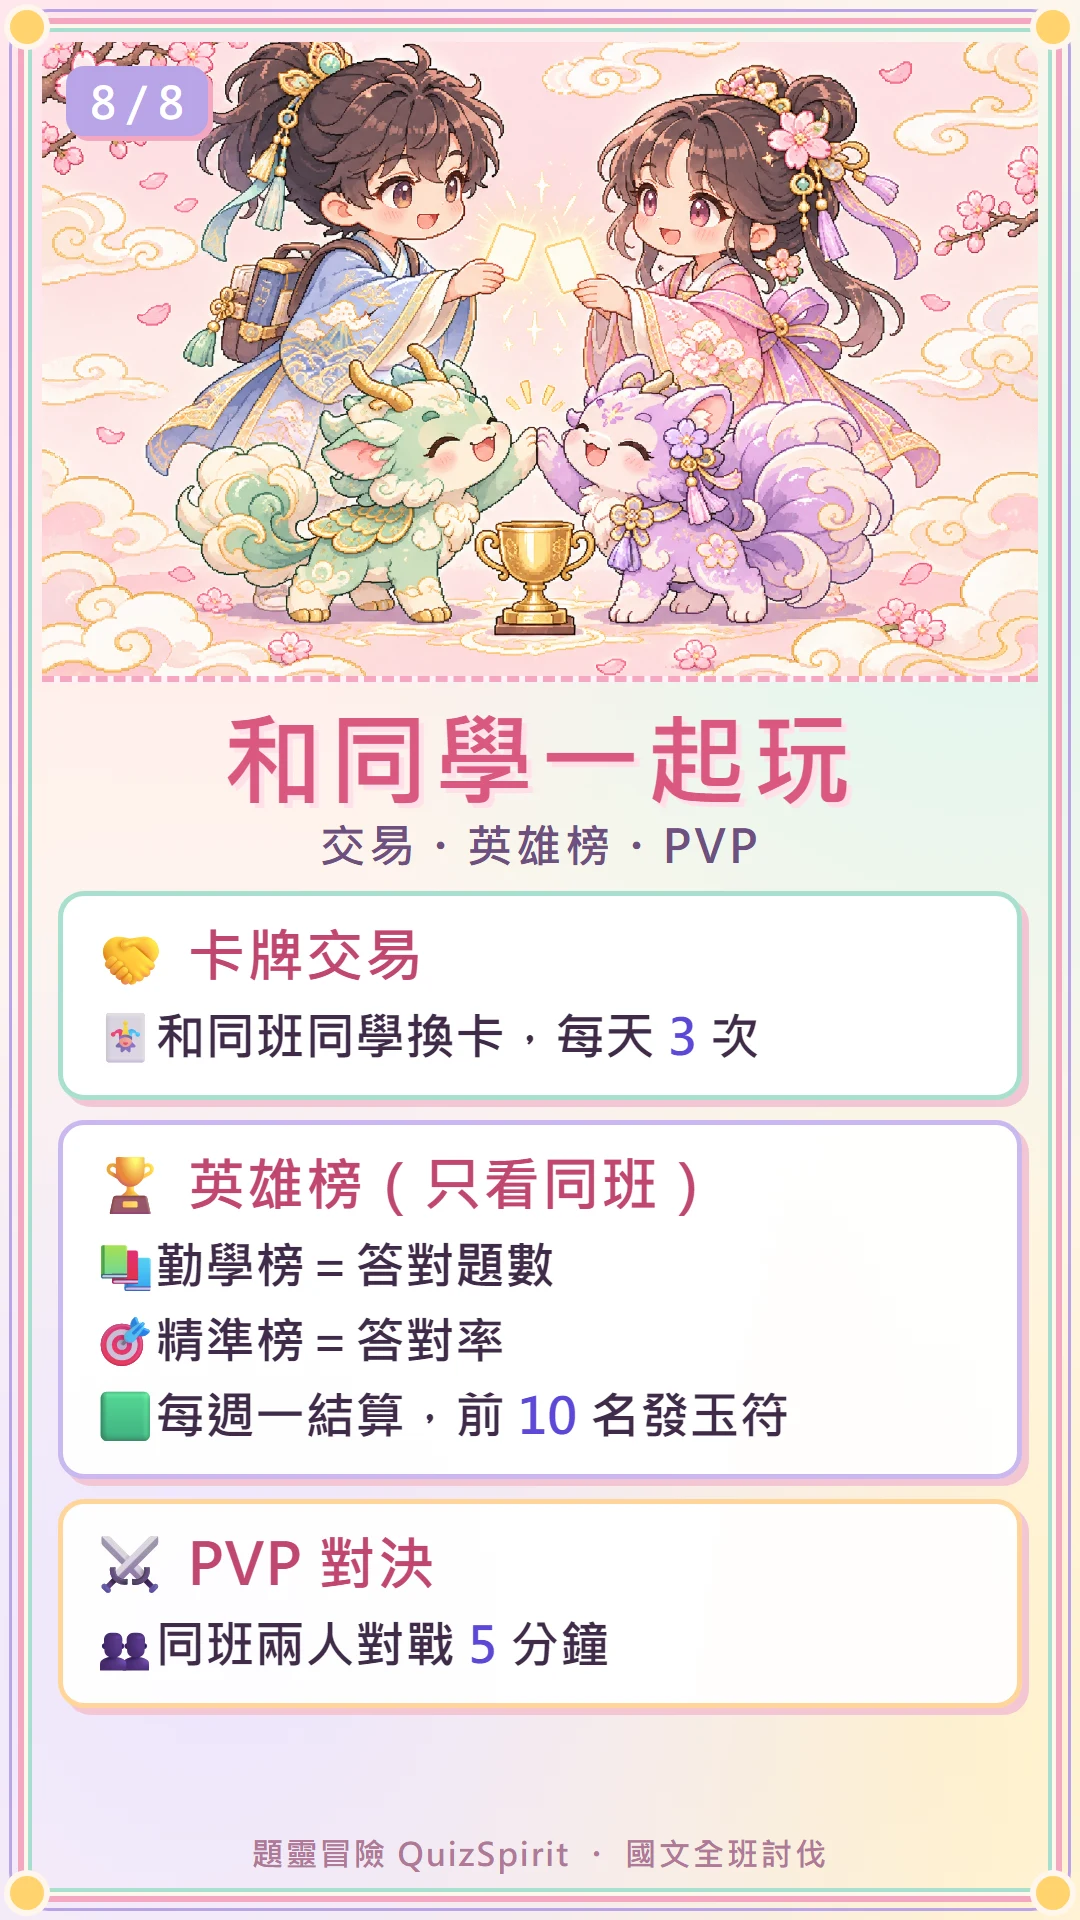
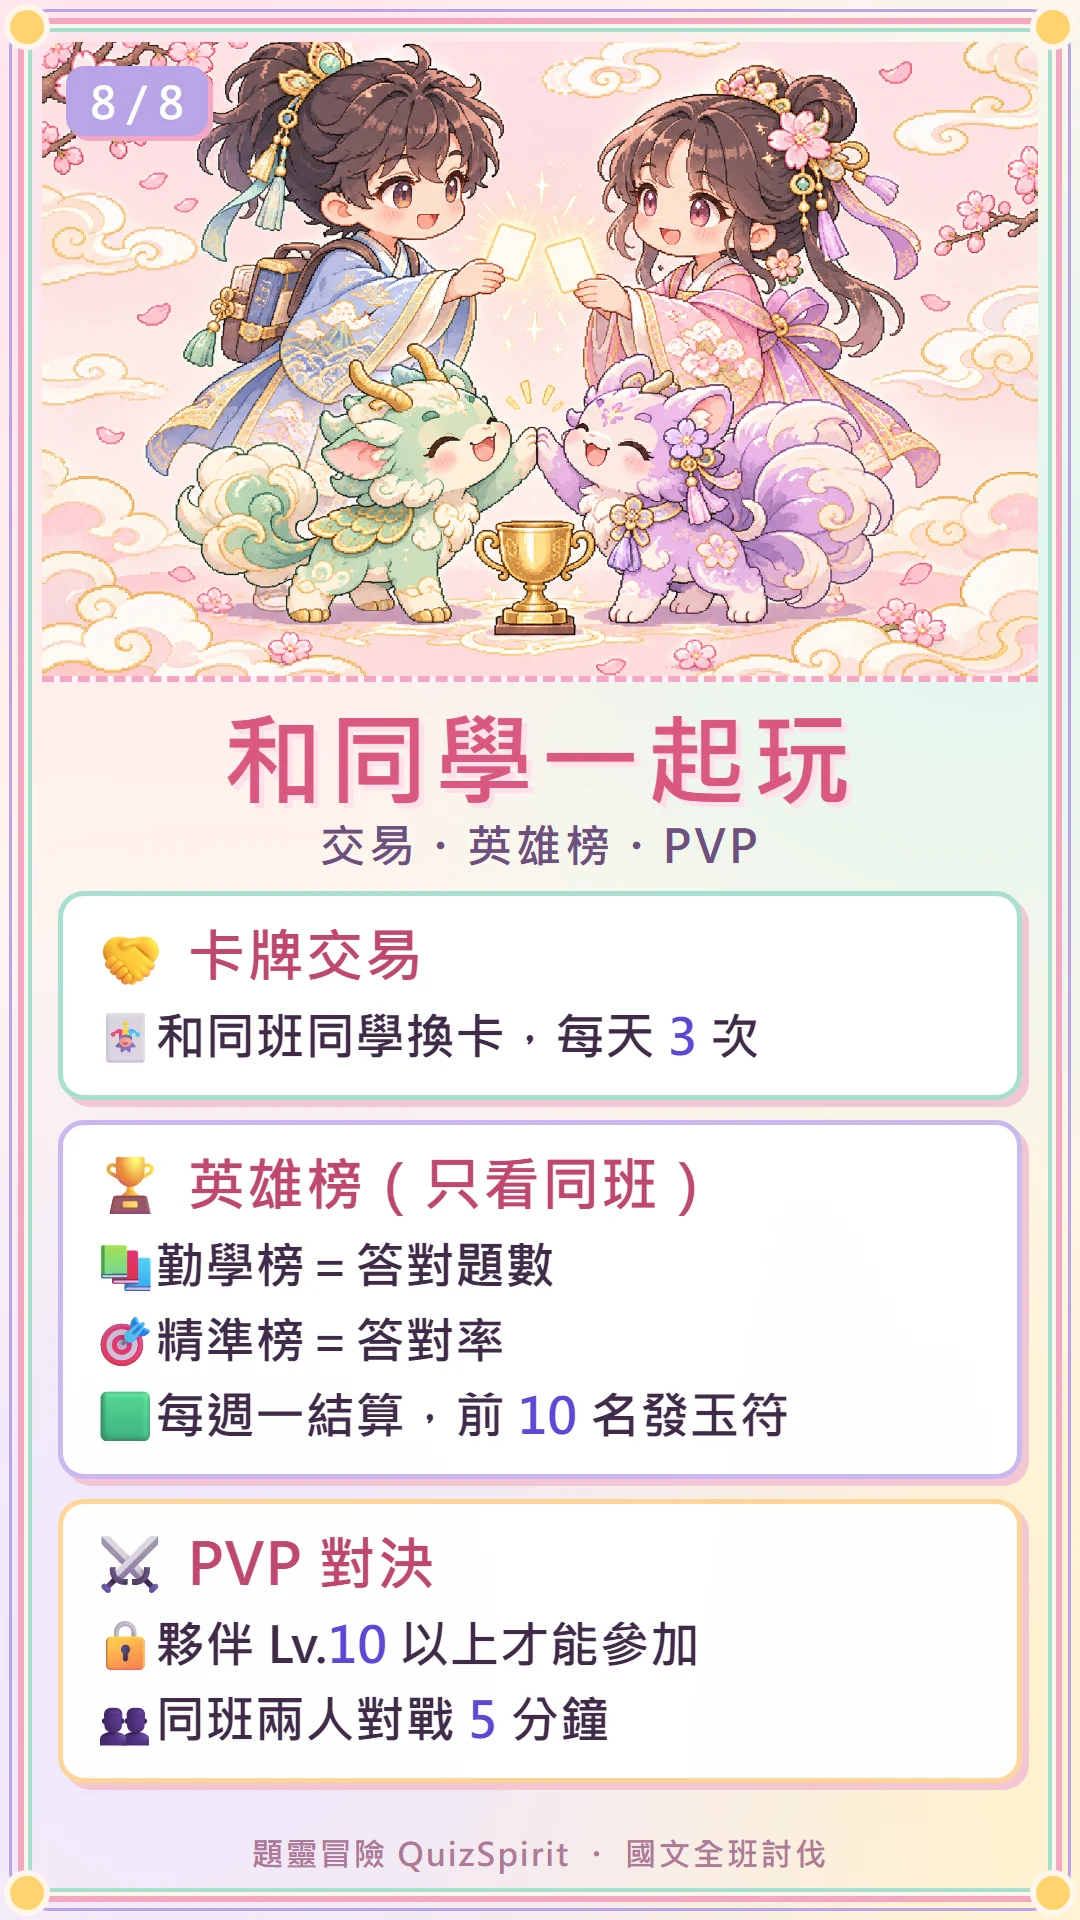
PVP 對決需要夥伴等級 10 以上，說明卡同步更新

Changed region(s): [[0.0306, 0.8438, 0.9778, 0.9375]]

diff --git a/src/PvpApp.jsx b/src/PvpApp.jsx
@@ -5,7 +5,7 @@ import React,{useState,useEffect,useRef,useCallback} from 'react';
 import RoomMusic from './RoomMusic.jsx';
 import {Swords,Heart,Clock,Users,Wifi,WifiOff,Check,ArrowRight,Flag,Trophy,RefreshCw,Home} from 'lucide-react';
 import {preferredBank} from './question-bank.js';
-import {api} from './api.js';import {PVP,pvpLive} from '../shared/pvp-rules.js';import {partnerFor} from './growth.js';import {usableSpirit} from '../shared/ownership.js';
+import {api} from './api.js';import {PVP,pvpLive} from '../shared/pvp-rules.js';import {partnerFor,levelFor} from './growth.js';import {usableSpirit} from '../shared/ownership.js';
 const clock=n=>`${String(Math.floor(Math.max(0,n)/60)).padStart(2,'0')}:${String(Math.max(0,n)%60).padStart(2,'0')}`;
 export default function PvpApp({user,cloud,banks,onRefresh,onExit}){
  const [room,setRoom]=useState(null),[loaded,setLoaded]=useState(false),[busy,setBusy]=useState(false),[connected,setConnected]=useState(false),[retryConnect,setRetryConnect]=useState(0),[error,setError]=useState(''),[notice,setNotice]=useState(''),[retry,setRetry]=useState(null),[tick,setTick]=useState(Date.now());
@@ -47,5 +47,5 @@ export default function PvpApp({user,cloud,banks,onRefresh,onExit}){
 }
 function Fighter({player,mine=false,acting=false,hurt=false,fxKey=0}){if(!player)return <div className="pvp-fighter empty"><Users size={48}/><h2>等待同班對手</h2><p>分享房間碼，邀請朋友加入。</p></div>;return <div className={`pvp-fighter ${mine?'mine':'rival'} ${acting?'is-acting':''} ${hurt?'is-hurt':''}`}><div className="pvp-player-name"><span className={player.online?'online-dot online':'online-dot'}/>{player.name}{mine?'（我）':''}<small>{player.ready?'已準備':'尚未準備'}</small></div><div className="pvp-portrait" key={fxKey}><img className={`idle-${motionFor(player.partner.type)}${player.partner.shiny?' is-shiny':''}`} style={idleStyle(player.partner.id,mine?'player':'enemy')} src={`/assets/${player.partner.id}.png`} alt={player.partner.zhName}/></div><h2>{player.nickname||player.partner.zhName}</h2><p>{player.partner.zhName}</p><div className="pvp-hp-label"><span>HP</span><b>{player.hp}<small> / 185</small></b></div><div className="pvp-hp-track" role="progressbar" aria-label={mine?'我的 HP':'對手 HP'} aria-valuemin={0} aria-valuemax={185} aria-valuenow={player.hp}><span style={{width:player.hp/185*100+'%'}}/></div></div>;}
 function RoleSelect({cloud,value,onChange,disabled}){const fixed=partnerFor(cloud.growth),choices=usableSpirit(cloud),chosen=choices.find(p=>p.id===Number(value));return <div className="pvp-role-select"><label>出戰角色<select aria-label="PVP 出戰角色" value={value} disabled={disabled||!choices.length} onChange={e=>onChange(Number(e.target.value))}>{!choices.length&&<option value="">先選固定夥伴</option>}{choices.map(p=><option value={p.id} key={p.id}>{p.zhName}{p.id===fixed?.id?'（固定夥伴）':'（已解鎖）'}</option>)}</select></label>{chosen&&<span><img src={`/assets/${chosen.id}.png`} alt={chosen.zhName}/>{chosen.zhName} · 所有角色能力相同</span>}</div>;}
-function PvpEntry({cloud,banks,busy,perform,user}){const [tab,setTab]=useState('create'),[code,setCode]=useState(''),[bank,setBank]=useState(()=>preferredBank(banks)),[role,setRole]=useState(partnerFor(cloud.growth)?.id||'');return <section className="pvp-entry"><div className="pvp-entry-story"><span className="cloud-eyebrow">THINK FAST. PLAY FAIR.</span><h2>這次，換朋友<br/>成為你的對手。</h2><p>同班兩人，各自連續答題。<br/>185 HP，5 分鐘，把思考化成攻擊。</p><div><span><Swords/>答對依難度造成 8／10／20 點傷害</span><span><Heart/>可用背包傷藥補血</span><span><Trophy/>時間到比較剩餘 HP</span></div></div><form onSubmit={e=>{e.preventDefault();(tab==='create'?perform('/pvp/create',{bankId:bank,playerId:Number(role)}):perform(`/pvp/${code.trim().toUpperCase()}/join`,{playerId:Number(role)})).catch(()=>{});}}><div className="pvp-entry-tabs"><button type="button" aria-pressed={tab==='create'} onClick={()=>setTab('create')}>建立房間</button><button type="button" aria-pressed={tab==='join'} onClick={()=>setTab('join')}>加入房間</button></div><p>你的班級：<b>{user.className||'尚未設定，請找老師協助'}</b></p><RoleSelect cloud={cloud} value={role} onChange={setRole} disabled={busy}/>{tab==='create'?<label>對決題庫<select value={bank} onChange={e=>setBank(e.target.value)}><option value="math-auto">自動數學練習</option>{banks.filter(b=>b.count>0).map(b=><option key={b.bankId} value={b.bankId}>{b.title}（{b.count} 題）</option>)}</select></label>:<label>6 碼 PVP 房間碼<input value={code} onChange={e=>setCode(e.target.value.toUpperCase())} pattern="[A-Z2-9]{6}" maxLength={6} required autoComplete="off" placeholder="例如：AB3C7D"/></label>}<button className="primary-button" disabled={busy||!role||!user.className}>{busy?'連線中…':tab==='create'?'建立 PVP 房間':'加入 PVP 房間'}<ArrowRight size={17}/></button><small>雙方使用同一題庫、各自打亂順序。開始前都要按準備，不會直接開打。</small></form></section>;}
+function PvpEntry({cloud,banks,busy,perform,user}){const [tab,setTab]=useState('create'),[code,setCode]=useState(''),[bank,setBank]=useState(()=>preferredBank(banks)),[role,setRole]=useState(partnerFor(cloud.growth)?.id||'');const xp=cloud.growth?.xp||0,lv=levelFor(xp),locked=lv<PVP.minLevel;return <section className="pvp-entry"><div className="pvp-entry-story"><span className="cloud-eyebrow">THINK FAST. PLAY FAIR.</span><h2>這次，換朋友<br/>成為你的對手。</h2><p>同班兩人，各自連續答題。<br/>185 HP，5 分鐘，把思考化成攻擊。</p><div><span><Swords/>答對依難度造成 8／10／20 點傷害</span><span><Heart/>可用背包傷藥補血</span><span><Trophy/>時間到比較剩餘 HP</span></div></div><form onSubmit={e=>{e.preventDefault();(tab==='create'?perform('/pvp/create',{bankId:bank,playerId:Number(role)}):perform(`/pvp/${code.trim().toUpperCase()}/join`,{playerId:Number(role)})).catch(()=>{});}}><div className="pvp-entry-tabs"><button type="button" aria-pressed={tab==='create'} onClick={()=>setTab('create')}>建立房間</button><button type="button" aria-pressed={tab==='join'} onClick={()=>setTab('join')}>加入房間</button></div>{locked&&<div className="pvp-level-lock" role="alert"><b>🔒 PVP 對決需要夥伴等級 {PVP.minLevel} 以上</b><span>你目前是 Lv.{lv}，還差 {(PVP.minLevel-1)*100-xp} XP。先去冒險多答幾題吧！</span></div>}<p>你的班級：<b>{user.className||'尚未設定，請找老師協助'}</b></p><RoleSelect cloud={cloud} value={role} onChange={setRole} disabled={busy}/>{tab==='create'?<label>對決題庫<select value={bank} onChange={e=>setBank(e.target.value)}><option value="math-auto">自動數學練習</option>{banks.filter(b=>b.count>0).map(b=><option key={b.bankId} value={b.bankId}>{b.title}（{b.count} 題）</option>)}</select></label>:<label>6 碼 PVP 房間碼<input value={code} onChange={e=>setCode(e.target.value.toUpperCase())} pattern="[A-Z2-9]{6}" maxLength={6} required autoComplete="off" placeholder="例如：AB3C7D"/></label>}<button className="primary-button" disabled={busy||!role||!user.className||locked}>{busy?'連線中…':tab==='create'?'建立 PVP 房間':'加入 PVP 房間'}<ArrowRight size={17}/></button><small>雙方使用同一題庫、各自打亂順序。開始前都要按準備，不會直接開打。</small></form></section>;}
 function PvpPartner({cloud,initial,busy,save}){const [role,setRole]=useState(initial);useEffect(()=>setRole(initial),[initial]);return <div className="pvp-change-role"><RoleSelect cloud={cloud} value={role} onChange={setRole} disabled={busy}/><button disabled={busy||role===initial} onClick={()=>save(Number(role)).catch(()=>{})}>保存出戰角色</button></div>;}

diff --git a/server/pvp-api.js b/server/pvp-api.js
@@ -1,8 +1,10 @@
-import {sha} from './auth.js';import {ownedSpirit} from '../shared/ownership.js';import {partnerFor} from '../src/growth.js';import {pvpLive,pvpError} from '../shared/pvp-rules.js';import {activeActivity,claimActivity,releaseActivity} from './activity.js';
+import {sha} from './auth.js';import {ownedSpirit} from '../shared/ownership.js';import {partnerFor,levelFor} from '../src/growth.js';import {PVP,pvpLive,pvpError} from '../shared/pvp-rules.js';import {activeActivity,claimActivity,releaseActivity} from './activity.js';
 const json=(data,status=200)=>new Response(JSON.stringify(data),{status,headers:{'Content-Type':'application/json; charset=utf-8','Cache-Control':'no-store'}});
 const actor=user=>({id:user.id,name:user.display_name,className:user.class_name,role:user.role,tokenHash:user.token_hash,sessionExpires:user.session_expires});
 export const pvpStub=(env,code)=>env.PVPS.get(env.PVPS.idFromName(code));
 async function forward(env,code,path,user,body,upgrade=false){const headers={'X-Battle-Actor':encodeURIComponent(JSON.stringify(actor(user)))};if(upgrade)headers.Upgrade='websocket';return pvpStub(env,code).fetch(new Request('https://pvp.internal'+path,{method:body===undefined?'GET':'POST',headers,body:body===undefined?undefined:JSON.stringify(body)}));}
+// PVP 需要夥伴等級 10 以上（2026-11-23）。
+const needLevel=state=>{const lv=levelFor(state.growth?.xp||0);if(lv<PVP.minLevel)pvpError(`PVP 對決需要夥伴等級 ${PVP.minLevel} 以上，你目前是 Lv.${lv}，再多答幾題就能挑戰！`,403);};
 const validId=id=>typeof id==='string'&&/^[a-zA-Z0-9_-]{16,80}$/.test(id);
 export async function handlePvp(req,env,user,path,body){
  if(!env.PVPS)pvpError('PVP 服務尚未設定。',503);if(user.role!=='student')pvpError('PVP 由同班學生建立與加入。',403);
@@ -14,7 +16,7 @@ export async function handlePvp(req,env,user,path,body){
   const bankId=String(body.bankId||'math-auto'),playerId=body.playerId===undefined?undefined:Number(body.playerId),fingerprint=await sha(JSON.stringify({bankId,playerId}));
   const previous=await env.DB.prepare('SELECT code,body_hash,config FROM pvp_rooms WHERE host_id=? AND request_id=?').bind(user.id,body.requestId).first();if(previous){if(previous.body_hash!==fingerprint)pvpError('操作識別內容不一致。',409);return forward(env,previous.code,'/init',user,JSON.parse(previous.config));}
   if(await activeActivity(env,user))pvpError('請先完成或離開原本的戰鬥房間。',409);
-  const row=await env.DB.prepare('SELECT data FROM progress WHERE user_id=?').bind(user.id).first(),state=JSON.parse(row.data),fixed=partnerFor(state.growth);if(!fixed)pvpError('請先選定養成夥伴。');const partner=playerId===undefined?fixed:ownedSpirit(state,playerId);if(!partner)pvpError('只能選擇自己的固定夥伴或已收服角色。',403);
+  const row=await env.DB.prepare('SELECT data FROM progress WHERE user_id=?').bind(user.id).first(),state=JSON.parse(row.data),fixed=partnerFor(state.growth);if(!fixed)pvpError('請先選定養成夥伴。');needLevel(state);const partner=playerId===undefined?fixed:ownedSpirit(state,playerId);if(!partner)pvpError('只能選擇自己的固定夥伴或已收服角色。',403);
   let bankTitle='自動數學練習';if(bankId!=='math-auto'){const bank=await env.DB.prepare('SELECT title,data FROM banks WHERE id=?').bind(bankId).first();if(!bank||!JSON.parse(bank.data).questions.some(q=>q.status==='active'))pvpError('請選有有效題目的題庫。');bankTitle=bank.title;}
   const chars='ABCDEFGHJKLMNPQRSTUVWXYZ23456789',code=Array.from(crypto.getRandomValues(new Uint8Array(6)),n=>chars[n%chars.length]).join(''),config={code,hostId:user.id,className:user.class_name,bankId,bankTitle,creator:{id:user.id,name:user.display_name,partner,nickname:partner.id===fixed.id?state.nickname:''}};
   try{await env.DB.batch([
@@ -32,7 +34,7 @@ export async function handlePvp(req,env,user,path,body){
  if(action==='join'){
   if(user.class_name!==room.class_name)pvpError('只能加入自己班級的 PVP 房間。',403);
   const held=await activeActivity(env,user);if(held&&(held.mode!=='pvp'||held.room_code!==code))pvpError('你已在另一場戰鬥中，請先回到原房間。',409);
-  const row=await env.DB.prepare('SELECT data FROM progress WHERE user_id=?').bind(user.id).first(),state=JSON.parse(row.data);if(!partnerFor(state.growth))pvpError('請先選定養成夥伴。');if(body.playerId!==undefined&&!ownedSpirit(state,body.playerId))pvpError('這個角色尚未收服。',403);
+  const row=await env.DB.prepare('SELECT data FROM progress WHERE user_id=?').bind(user.id).first(),state=JSON.parse(row.data);if(!partnerFor(state.growth))pvpError('請先選定養成夥伴。');needLevel(state);if(body.playerId!==undefined&&!ownedSpirit(state,body.playerId))pvpError('這個角色尚未收服。',403);
   const statusResponse=await forward(env,code,'/status',user);if(!statusResponse.ok)pvpError('開房者尚未準備好，請稍後再試。',409);const status=(await statusResponse.json()).status,current=await env.DB.prepare('SELECT room_code FROM pvp_members WHERE user_id=?').bind(user.id).first();if(!pvpLive(status)&&current?.room_code!==code)pvpError('這場對決已結束。',409);
   if(pvpLive(status))added=await claimActivity(env,user,'pvp',code);
   await env.DB.prepare('INSERT INTO pvp_members(user_id,room_code) VALUES(?,?) ON CONFLICT(user_id) DO UPDATE SET room_code=excluded.room_code').bind(user.id,code).run();

diff --git a/shared/pvp-rules.js b/shared/pvp-rules.js
@@ -1,5 +1,5 @@
 import {hitDamage} from './raid-rules.js';
-export const PVP={hp:185,hit:10,duration:300000,waitingDuration:600000,potion:30};
+export const PVP={minLevel:10,hp:185,hit:10,duration:300000,waitingDuration:600000,potion:30};
 export const pvpLive=status=>['waiting','active'].includes(status);
 export function pvpError(message,status=400){throw Object.assign(Error(message),{status});}
 export function pvpEvent(s,type,text,now,extra={}){s.sequence++;s.events.unshift({sequence:s.sequence,type,text,at:now,...extra});s.events=s.events.slice(0,14);}

diff --git a/src/pvp.css b/src/pvp.css
@@ -27,3 +27,7 @@
 /* 選項字體與題目一樣大（2026-11-21）：PVP */
 .pvp-options>button>strong{font-size:29px;line-height:1.6}
 @media(max-width:600px){.pvp-options>button>strong{font-size:24px}}
+/* 2026-11-23 PVP 等級門檻 */
+.pvp-level-lock{display:grid;gap:6px;padding:14px 16px;border-radius:14px;border:2px solid #f2cf77;background:#3a2f12cc;color:#ffe9a8}
+.pvp-level-lock b{font-size:19px}
+.pvp-level-lock span{font-size:16px;color:#f1e6c6}
